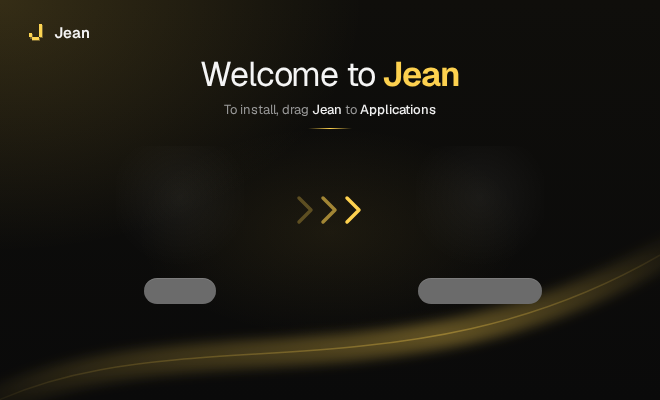
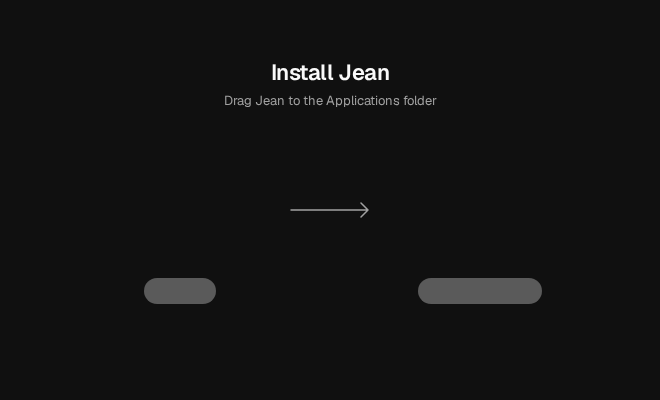
style(dmg): simplify installer background to match minimal UI

diff --git a/src-tauri/dmg/source/background.html b/src-tauri/dmg/source/background.html
@@ -16,11 +16,6 @@
         font-weight: 100 900;
       }
 
-      :root {
-        --gold: #fdd14f;
-        --gold-dim: #7a6530;
-      }
-
       * {
         margin: 0;
         padding: 0;
@@ -37,99 +32,33 @@
       body {
         position: relative;
         font-family: 'Geist Sans', sans-serif;
-        color: #f5f5f5;
-        background:
-          radial-gradient(
-            ellipse 520px 360px at 0% 0%,
-            rgba(253, 209, 79, 0.16),
-            transparent 70%
-          ),
-          radial-gradient(
-            ellipse 260px 140px at 50% 58%,
-            rgba(253, 209, 79, 0.07),
-            transparent 75%
-          ),
-          linear-gradient(180deg, #0f0e0b 0%, #0a0a0a 100%);
-      }
-
-      .swoosh {
-        position: absolute;
-        inset: 0;
-      }
-
-      .brand {
-        position: absolute;
-        top: 22px;
-        left: 26px;
-        display: flex;
-        align-items: center;
-        gap: 8px;
-        font-size: 15px;
-        font-weight: 600;
-        letter-spacing: -0.01em;
-      }
-
-      .brand img {
-        width: 20px;
-        height: 20px;
+        background: #101010;
+        color: #fafafa;
       }
 
       .title {
         position: absolute;
-        top: 52px;
+        top: 58px;
         width: 100%;
         text-align: center;
-        font-size: 34px;
-        font-weight: 400;
-        letter-spacing: -0.035em;
-      }
-
-      .title b {
-        color: var(--gold);
-        font-weight: 650;
+        font-size: 22px;
+        font-weight: 600;
+        letter-spacing: -0.02em;
       }
 
       .subtitle {
         position: absolute;
-        top: 101px;
+        top: 92px;
         width: 100%;
         text-align: center;
         font-size: 13px;
-        color: #9a9a9a;
+        color: #a1a1a1;
       }
 
-      .subtitle b {
-        color: #f0f0f0;
-        font-weight: 500;
-      }
-
-      .divider {
+      .arrow {
         position: absolute;
-        top: 128px;
-        left: 50%;
-        width: 44px;
-        height: 1px;
-        transform: translateX(-50%);
-        background: linear-gradient(
-          90deg,
-          transparent,
-          var(--gold),
-          transparent
-        );
-      }
-
-      /* Soft tiles behind the icons */
-      .tile {
-        position: absolute;
-        top: 146px;
-        width: 128px;
-        height: 128px;
-        border-radius: 30px;
-        background: radial-gradient(
-          circle at 50% 40%,
-          rgba(255, 255, 255, 0.05),
-          transparent 70%
-        );
+        top: 202px;
+        left: 290px;
       }
 
       /* Pills keep Finder labels readable in light and dark mode */
@@ -139,77 +68,29 @@
         height: 26px;
         border-radius: 13px;
         transform: translateX(-50%);
-        background: #6b6b6b;
-        box-shadow: inset 0 1px 0 rgba(255, 255, 255, 0.12);
-      }
-
-      .arrows {
-        position: absolute;
-        top: 192px;
-        left: 50%;
-        transform: translateX(-50%);
-        display: flex;
-        gap: 2px;
+        background: #5a5a5a;
       }
     </style>
   </head>
   <body>
-    <svg class="swoosh" viewBox="0 0 660 400" aria-hidden="true">
-      <defs>
-        <linearGradient id="swoosh" x1="0" y1="1" x2="1" y2="0">
-          <stop offset="0" stop-color="#fdd14f" stop-opacity="0" />
-          <stop offset="0.55" stop-color="#fdd14f" stop-opacity="0.35" />
-          <stop offset="1" stop-color="#fdd14f" stop-opacity="0" />
-        </linearGradient>
-        <filter id="blur" x="-20%" y="-20%" width="140%" height="140%">
-          <feGaussianBlur stdDeviation="6" />
-        </filter>
-      </defs>
-      <path
-        d="M -40 420 C 160 300, 420 420, 700 230"
-        fill="none"
-        stroke="url(#swoosh)"
-        stroke-width="28"
-        filter="url(#blur)"
-      />
-      <path
-        d="M -40 420 C 160 300, 420 420, 700 230"
-        fill="none"
-        stroke="url(#swoosh)"
-        stroke-width="1.5"
-      />
-    </svg>
-
-    <div class="brand">
-      <img src="../../../public/logo.png" alt="" />
-      Jean
-    </div>
-
-    <h1 class="title">Welcome to <b>Jean</b></h1>
-    <p class="subtitle">To install, drag <b>Jean</b> to <b>Applications</b></p>
-    <div class="divider"></div>
-
-    <div class="tile" style="left: 116px"></div>
-    <div class="tile" style="left: 416px"></div>
+    <h1 class="title">Install Jean</h1>
+    <p class="subtitle">Drag Jean to the Applications folder</p>
 
     <svg
-      class="arrows"
-      width="78"
-      height="36"
-      viewBox="0 0 78 36"
+      class="arrow"
+      width="80"
+      height="16"
+      viewBox="0 0 80 16"
       aria-hidden="true"
     >
-      <g
+      <path
+        d="M 1 8 H 78 M 71 1 L 78 8 L 71 15"
         fill="none"
-        stroke="#fdd14f"
-        stroke-width="3.5"
+        stroke="#a1a1a1"
+        stroke-width="1.5"
         stroke-linecap="round"
         stroke-linejoin="round"
-      >
-        <path d="M 8 6 L 20 18 L 8 30" stroke-opacity="0.3" />
-        <path d="M 32 6 L 44 18 L 32 30" stroke-opacity="0.6" />
-        <path d="M 56 6 L 68 18 L 56 30" />
-      </g>
+      />
     </svg>
 
     <div class="pill" style="left: 180px; width: 72px"></div>
